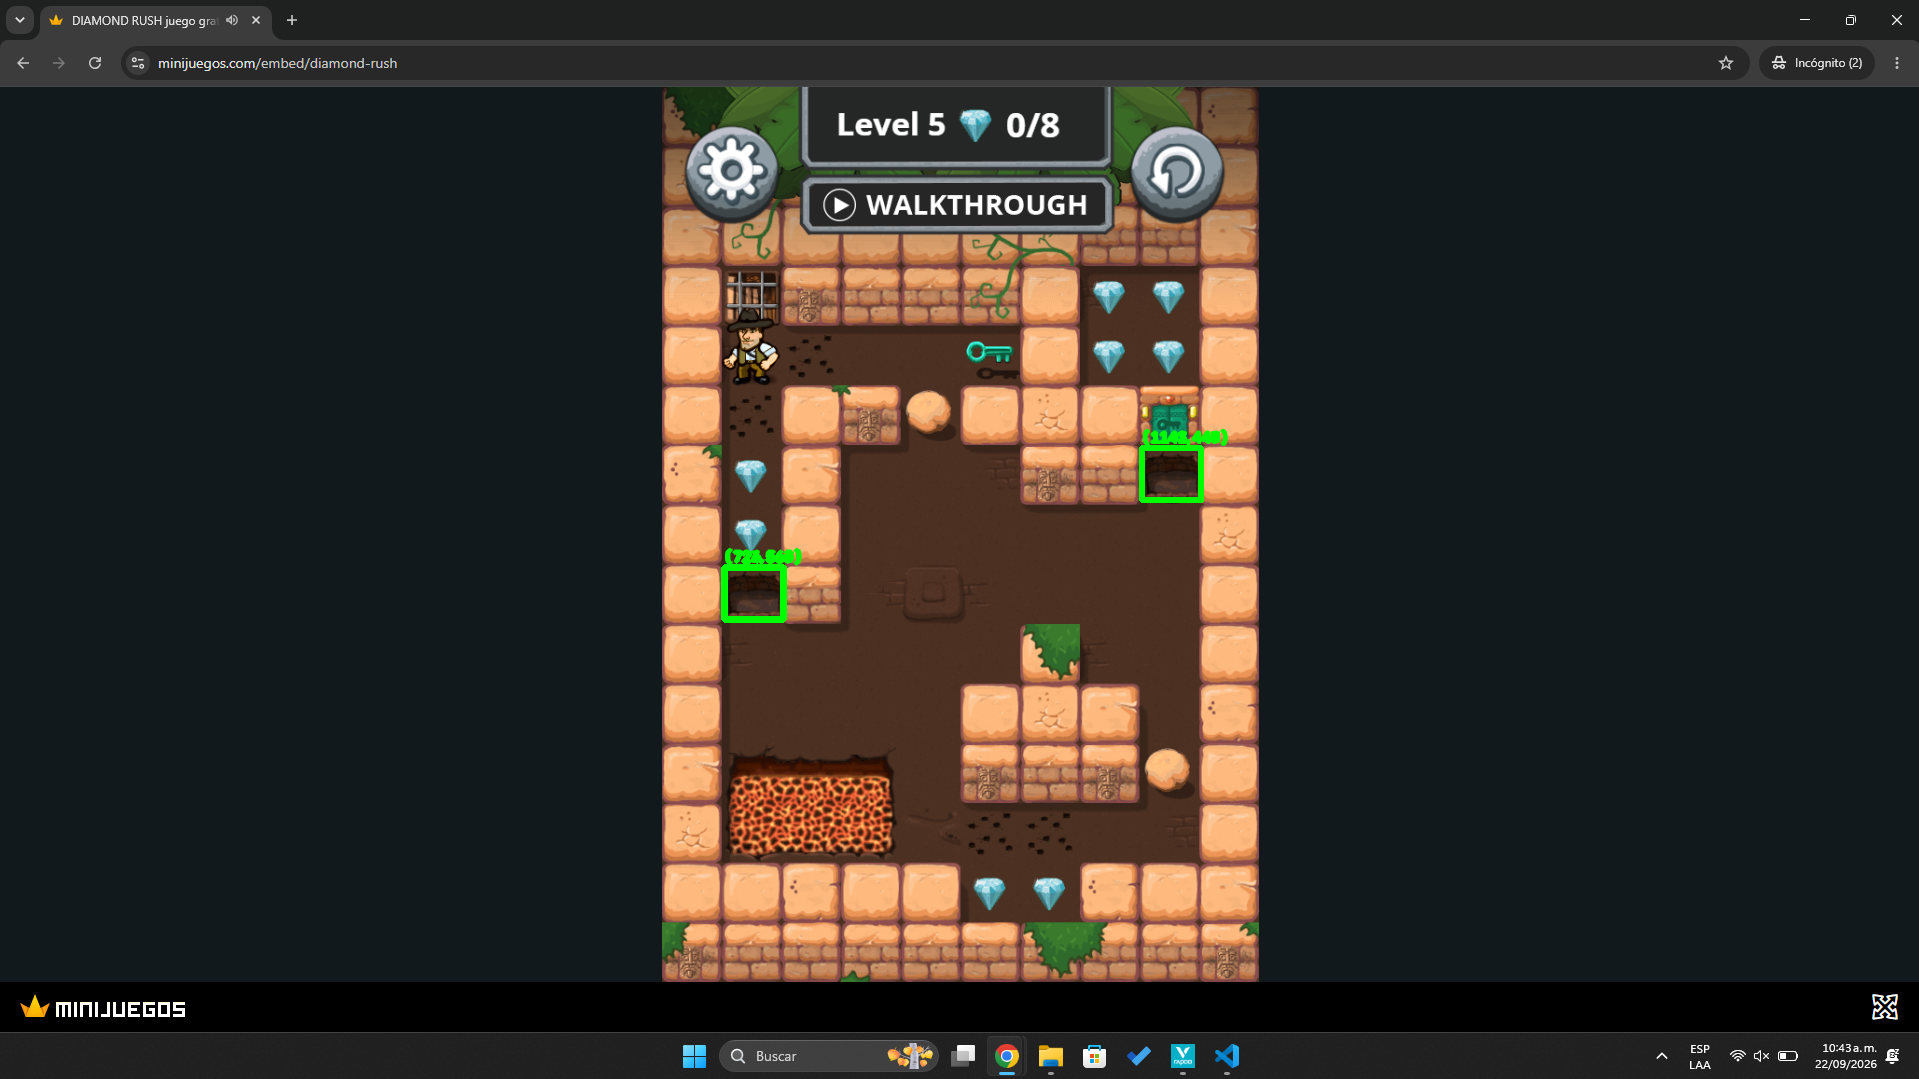
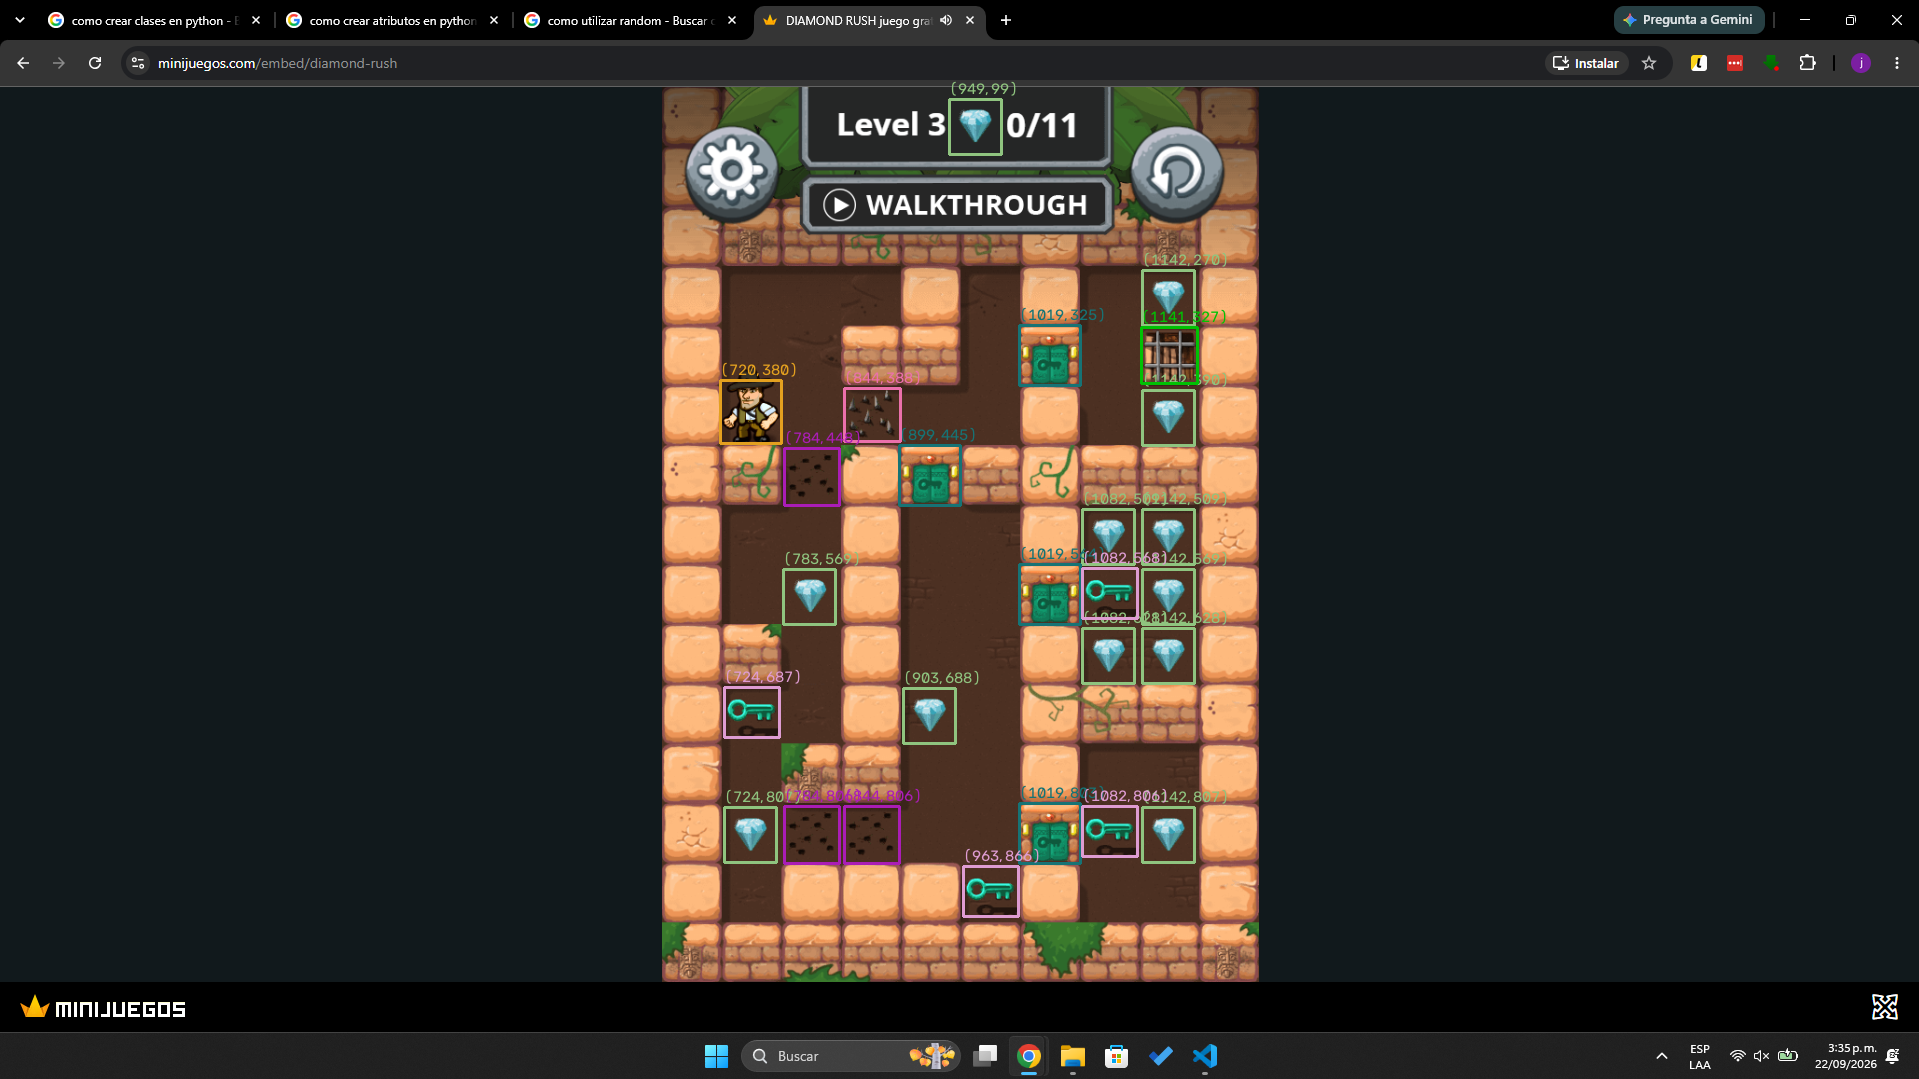
reconocimiento de objetos

diff --git a/Diamond_rush/Search_objects.py b/Diamond_rush/Search_objects.py
@@ -1,6 +1,70 @@
 import cv2
 from pathlib import Path
+from random import random
 
+class MatchTemplate:
+    
+    def __init__(self, template_path, imagen):
+        self.imagen = imagen
+        self.template_path = template_path
+        
+        self.template_image = cv2.imread(str(self.template_path))
+        self.check_images_exist(self.template_image, self.template_path)
+        
+        self.get_template_size()
+        
+        
+    @staticmethod
+    def check_images_exist(imagen, path):
+        if imagen is None:
+            raise FileNotFoundError(
+                f"No se pudo cargar la imagen: {path}"
+            )
+    
+    def get_template_size(self):
+        h, w = self.template_image.shape[:2]
+        print(f"Template: {w}x{h}")
+        return h, w
+    
+    def match_template(self, threshold=0.80, solape_max=None):
+        if solape_max is None:
+            solape_max = SOLAPE_MAX
+        resultado = cv2.matchTemplate(
+            self.imagen,
+            self.template_image,
+            cv2.TM_CCOEFF_NORMED
+        )
+        
+        ys, xs = (resultado >= threshold).nonzero()
+        scores = resultado[ys, xs]
+        h, w = self.get_template_size()
+        
+        # NMS: quedarse con una sola caja por objeto
+        # (matchTemplate deja una "meseta" de píxeles sobre el umbral alrededor de cada coincidencia)
+        candidatos = sorted(
+            zip(xs, ys, scores),
+            key=lambda p: p[2],
+            reverse=True
+        )
+        
+        elegidos = []
+        for x, y, _ in candidatos:
+            if all(
+                self._sobrelape(x, y, ex, ey, w, h) <= solape_max
+                for ex, ey in elegidos
+            ):
+                elegidos.append((x, y))
+        
+        xs, ys = zip(*elegidos) if elegidos else ([], [])
+        print(f"Coincidencias encontradas: {len(elegidos)}")
+        
+        return list(xs), list(ys)
+    
+    def _sobrelape(self, x, y, dx, dy, w, h):
+        ancho = max(0, min(x + w, dx + w) - max(x, dx))
+        alto  = max(0, min(y + h, dy + h) - max(y, dy))
+        return (ancho * alto) / (w * h)
+    
 # ==========================================
 # CONFIGURACIÓN
 # ==========================================
@@ -9,91 +73,78 @@ BASE_DIR = Path(__file__).resolve().parent
 
 imagen_path = BASE_DIR / "captura.png"
 template_path = BASE_DIR / "templates" / "personaje.png"
-template_path = BASE_DIR / "templates" / "diamond.png"
-template_path = BASE_DIR / "templates" / "door_key.png"
-template_path = BASE_DIR / "templates" / "hueco.png"
+personaje_path = BASE_DIR / "templates" / "personaje.png"
+diamond_path = BASE_DIR / "templates" / "diamond.png"
+door_key_path = BASE_DIR / "templates" / "door_key.png"
+hueco_path = BASE_DIR / "templates" / "hueco.png"
+key_path = BASE_DIR / "templates" / "key.png"
+pic_path = BASE_DIR / "templates" / "pic.png"
+rock_in_path = BASE_DIR / "templates" / "rock_in.png"
+rock_path = BASE_DIR / "templates" / "rock.png"
+scape_block_path = BASE_DIR / "templates" / "scape_block.png"
+space_enable_path = BASE_DIR / "templates" / "scape_enable.png"
+no_picos_path = BASE_DIR / "templates" / "no_picos.png"
 
 UMBRAL = 0.80
 
-
-# ==========================================
-# CARGAR IMÁGENES
-# ==========================================
+# Fracción máxima del área del template que dos coincidencias pueden compartir
+# antes de considerarse la misma meseta (0 = nada, 1 = todo)
+SOLAPE_MAX = 0.4
 
 imagen = cv2.imread(str(imagen_path))
-template = cv2.imread(str(template_path))
+MatchTemplate.check_images_exist(imagen, imagen_path)
 
-if imagen is None:
-    raise FileNotFoundError(
-        f"No se pudo cargar la imagen: {imagen_path}"
-    )
-
-if template is None:
-    raise FileNotFoundError(
-        f"No se pudo cargar el template: {template_path}"
-    )
-
-
-# ==========================================
-# TAMAÑO DEL TEMPLATE
-# ==========================================
-
-h, w = template.shape[:2]
-
-print(f"Template: {w}x{h}")
-
-
-# ==========================================
-# TEMPLATE MATCHING
-# ==========================================
-
-resultado = cv2.matchTemplate(
-    imagen,
-    template,
-    cv2.TM_CCOEFF_NORMED
-)
-
-
-# ==========================================
-# OBTENER COORDENADAS
-# ==========================================
-
-ys, xs = (resultado >= UMBRAL).nonzero()
-
-print(f"Coincidencias encontradas: {len(xs)}")
+objects = [
+    MatchTemplate(personaje_path, imagen), 
+    MatchTemplate(diamond_path, imagen), 
+    MatchTemplate(door_key_path, imagen), 
+    MatchTemplate(hueco_path, imagen), 
+    MatchTemplate(key_path, imagen), 
+    MatchTemplate(pic_path, imagen), 
+    MatchTemplate(rock_in_path, imagen), 
+    MatchTemplate(rock_path, imagen), 
+    MatchTemplate(scape_block_path, imagen), 
+    MatchTemplate(space_enable_path, imagen),
+    MatchTemplate(no_picos_path, imagen)
+    ]
 
 
 # ==========================================
 # DIBUJAR RESULTADOS
 # ==========================================
 
-for x, y in zip(xs, ys):
+for obj in objects:
+    
+    xs, ys = obj.match_template(threshold=UMBRAL)
+    h, w = obj.get_template_size()
+    
+    r = int(random() * 255)
+    g = int(random() * 255)
+    b = int(random() * 255)
+    
+    for x, y in zip(xs, ys):
 
-    x = int(x)
-    y = int(y)
+        x = int(x)
+        y = int(y)
 
-    cv2.rectangle(
-        imagen,
-        (x, y),
-        (x + w, y + h),
-        (0, 255, 0),
-        2
-    )
+        cv2.rectangle(
+            imagen,
+            (x, y),
+            (x + w, y + h),
+            (r, g, b),
+            2
+        )
 
-    cv2.putText(
-        imagen,
-        f"({x}, {y})",
-        (x, y - 5),
-        cv2.FONT_HERSHEY_SIMPLEX,
-        0.5,
-        (0, 255, 0),
-        1
-    )
+        cv2.putText(
+            imagen,
+            f"({x}, {y})",
+            (x, y - 5),
+            cv2.FONT_HERSHEY_SIMPLEX,
+            0.5,
+            (r, g, b),
+            1
+        )
 
-
-# ==========================================
-# GUARDAR RESULTADO
-# ==========================================
 
 resultado_path = BASE_DIR / "resultado.png"
 

diff --git a/Diamond_rush/README.md b/Diamond_rush/README.md
@@ -1,1 +1,3 @@
 La idea principal, es hacer un agente, capaz de jugar cualuquiera de los 20 niveles del videojuego de este enlace: https://www.minijuegos.com/juego/diamond-rush
+
+https://www.minijuegos.com/embed/diamond-rush
